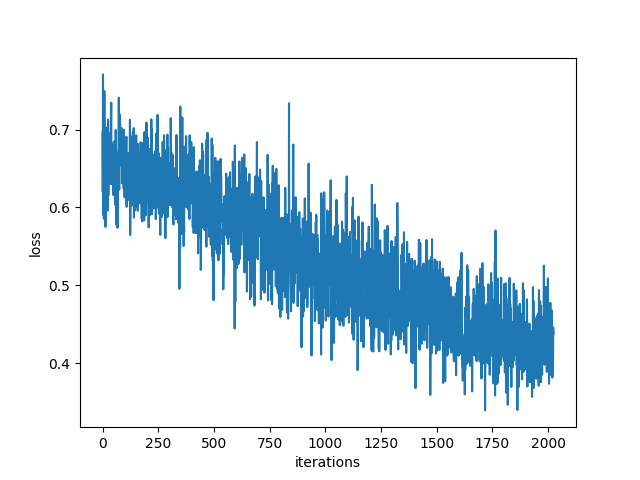
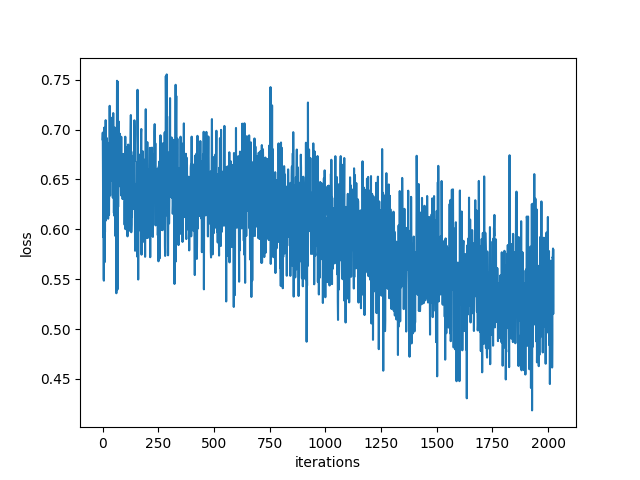
closer

diff --git a/Vishal_tests/base/smile_model.py b/Vishal_tests/base/smile_model.py
@@ -240,7 +240,7 @@ print("defined model")
 model.type(dtype)
 model.train()
 loss_fn = nn.CrossEntropyLoss().type(dtype)
-optimizer = optim.Adam(model.parameters(), lr=1e-4,weight_decay=0.005)
+optimizer = optim.Adam(model.parameters(), lr=1e-4,weight_decay=0.010)
 print("start training")
 loss_history,acc_history,val_acc_history=train(train_loader,val_loader, model, loss_fn, optimizer, dtype,num_epochs=25, print_every=10)
 
